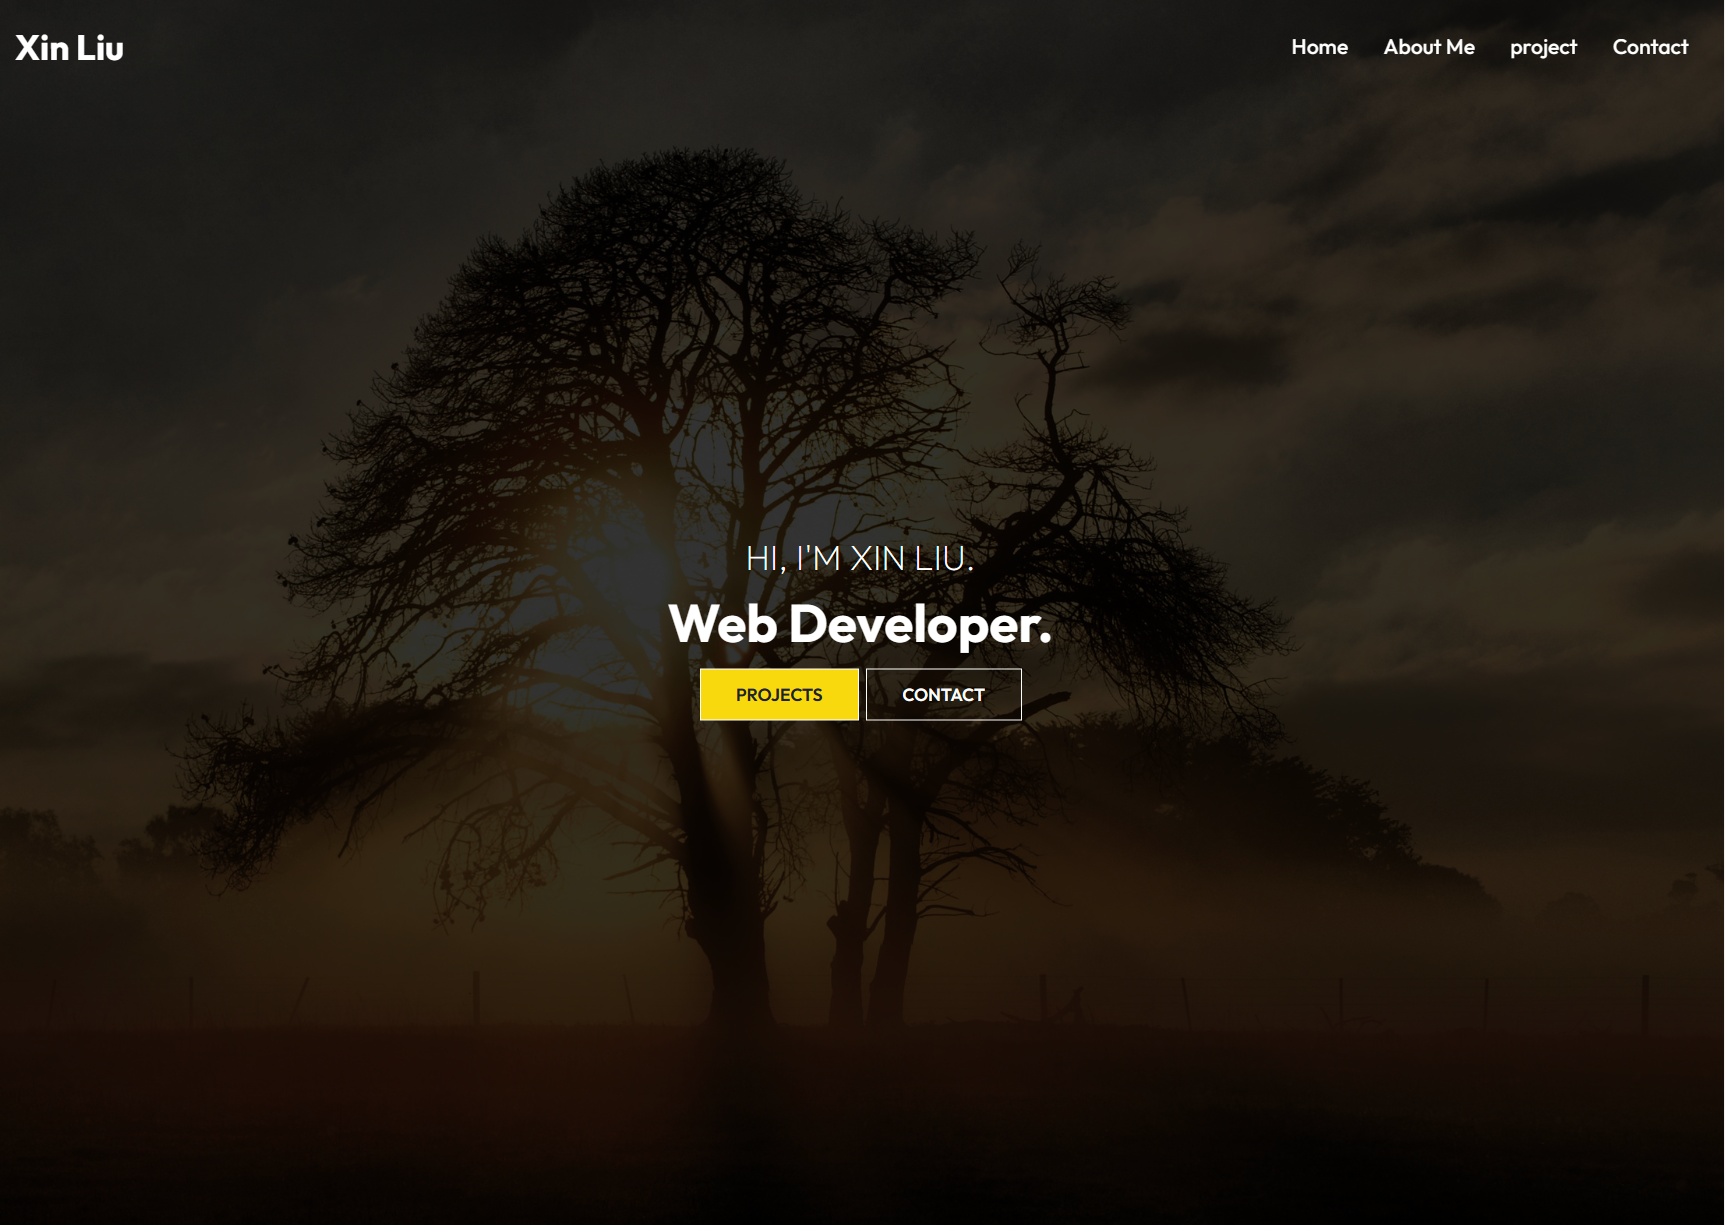
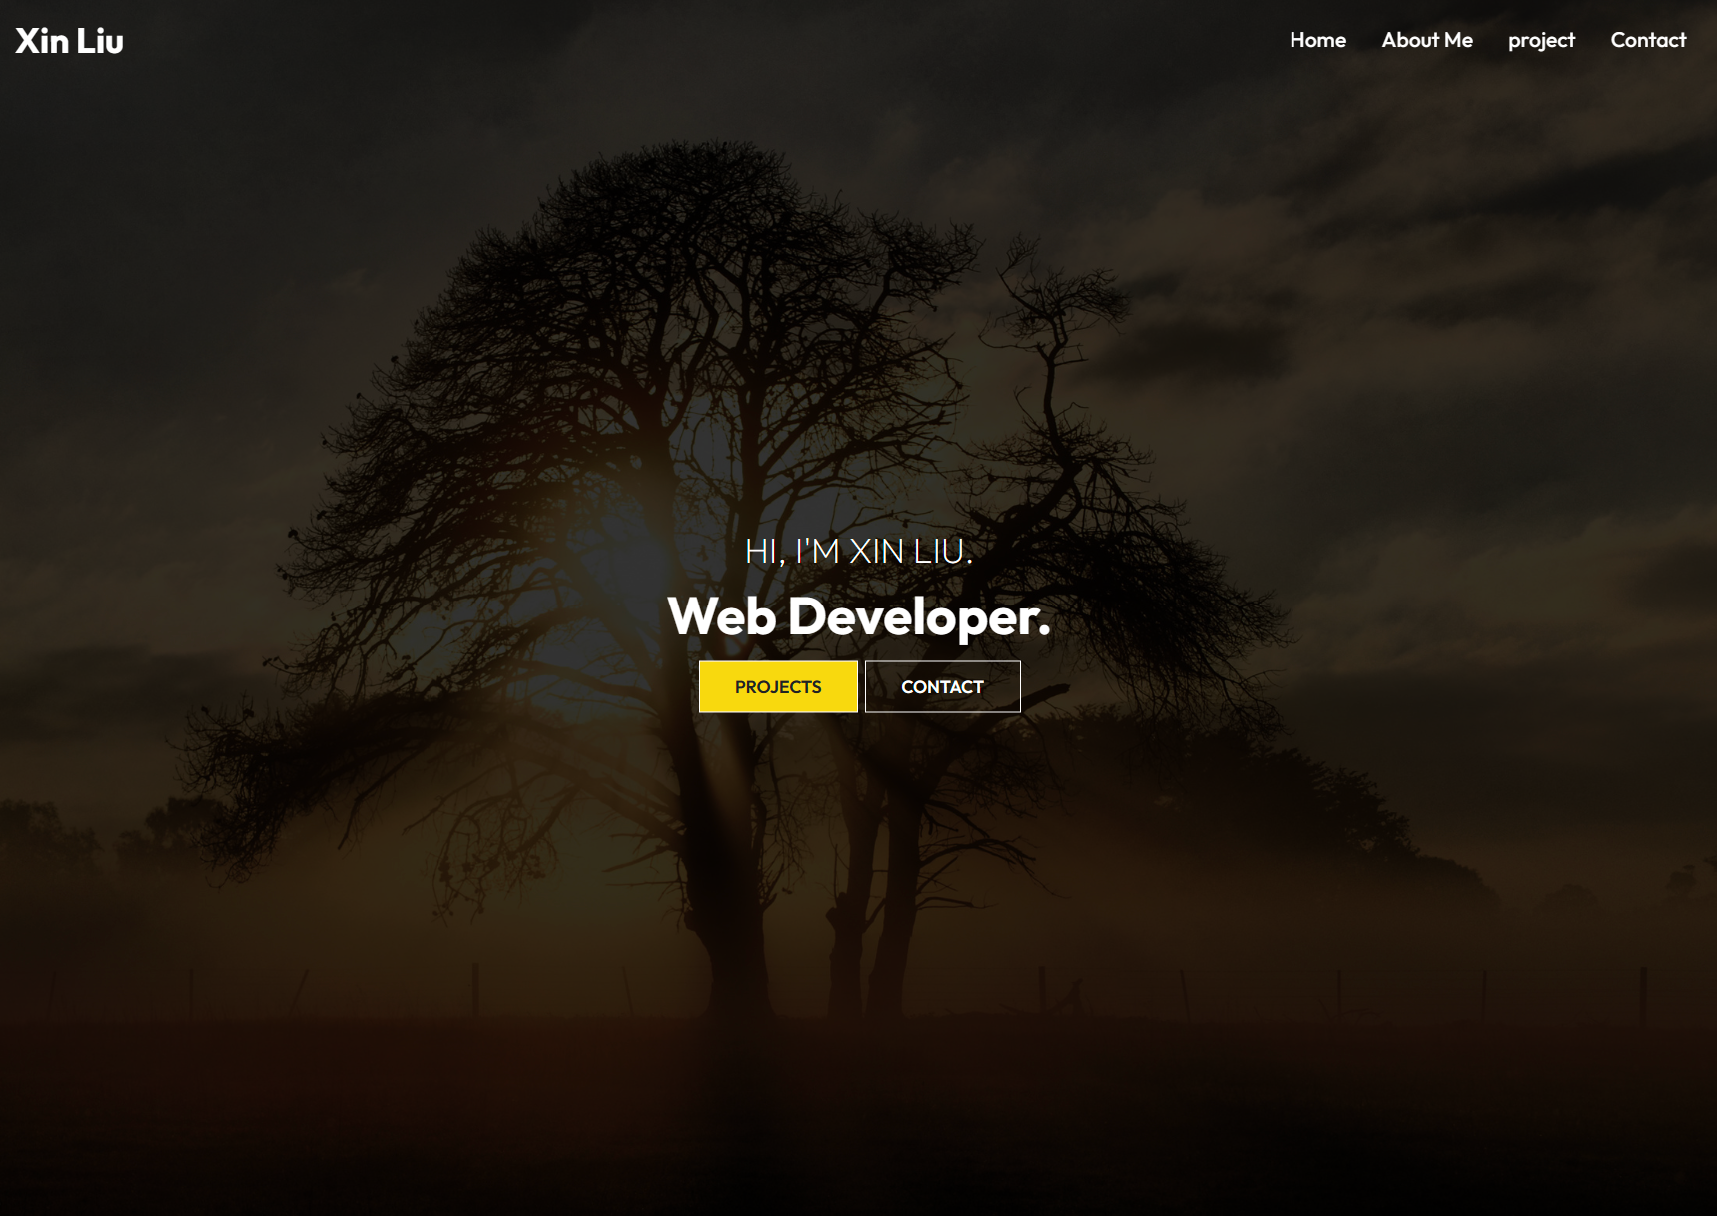
updated button effects and fix bugs in footer

diff --git a/src/components/Footer.js b/src/components/Footer.js
@@ -8,12 +8,15 @@ const Footer = () => {
     <div className="footer">
       <div className="footer-container">
         <div className="left">
-          <div className="location">
-            <h4><FaSchool size={25} style={{ color: "#fff", marginRight: "2rem" }} /><p >Toronto Metropolitan University </p><p style={{textAlign:"center"}}>(Ryerson University)</p></h4>
+            <div className="location">
+            
+                <p><FaSchool size={20} style={{ color: "#fff", marginRight: "1rem" }} /><p >Toronto Metropolitan University </p><p style={{textAlign:"center"}}>(Ryerson University)</p></p>
             </div>
+
             <div className="email">
-            <h4><FaMailBulk size={20} style={{ color: "#fff", marginRight: "2rem" }} /> x13liu@torontomu.ca</h4>
+               <p><FaMailBulk size={20} style={{ color: "#fff", marginRight: "1rem" }} /> x13liu@torontomu.ca</p>        
             </div>
+            
             {/* <div className="github">
             <h4><FaGithub size={20} style={{ color: "#fff", marginRight: "2rem" }} /> https://github.com/lusanjj</h4>
             </div>

diff --git a/src/components/FooterStyles.css b/src/components/FooterStyles.css
@@ -20,16 +20,13 @@
     padding: 1rem;
 }
 
-.location{
+.location.email{
 
     display: flex;
     margin-bottom: 0.8rem;
 
 }
-.location p{
 
-line-height: 30px;
-}
 .right{
     height:100%;
     max-width: 100%;
@@ -37,20 +34,14 @@ line-height: 30px;
     flex-direction: column;
     padding: 1rem;
 }
+
 .social{
     margin-top: 1rem;
 
 }
-h4{
+
+p{
     font-size: 1.2rem;
     padding-bottom: 0.7rem;
 
-}
-p{
-    font-size: 1.2rem;
-}
-@media screen and (max-width:640px) {
-    .footer-container{
-        grid-template-columns: 1fr;
-    }
 }

diff --git a/src/components/HeroImgStyle.css b/src/components/HeroImgStyle.css
@@ -40,8 +40,8 @@
     text-align: center;
 }
 .hero .content h1{
-font-size: 3rem;
-padding: 0.6rem 0 1.5rem;
+    font-size: 3rem;
+    padding: 0.6rem 0 1.5rem;
 }
 
 .hero .content p{
@@ -53,6 +53,8 @@ padding: 0.6rem 0 1.5rem;
 .content .btn{
     margin: 1rem 0.2rem;
 }
+
+
 
 
 @media screen and (max-width:640px) {

diff --git a/src/components/Navbar.js b/src/components/Navbar.js
@@ -20,7 +20,7 @@ const Navbar = () => {
   return (
     <div className={color ? "header header-bg" : "header" }>
       <Link to="/">
-        <h1>Xin Liu</h1>
+        <h1 className="btn-touch">Xin Liu</h1>
       </Link>
       <ul className={click ?"nav-menu active":"nav-menu"}>
         <li>

diff --git a/src/index.css b/src/index.css
@@ -38,8 +38,14 @@ cursor:pointer;
   color: #fff;
 }
 
+
+
 .btn:hover{
   background:rgba(255, 255, 255, 0.2);
   color: #fff;
   transition:0.3s;
+}
+.btn-touch:hover{
+  color:#d28e46;
+  transition: all 0.5s ease;
 }

diff --git a/src/components/NavbarStyle.css b/src/components/NavbarStyle.css
@@ -22,6 +22,10 @@
     font-size: 1.2rem;
     font-weight: 500;
 }
+.nav-menu li a:hover{
+    color:#e84117;
+    transition: all 0.5s ease;
+}
 .hamburger{
     display: none;
 }
